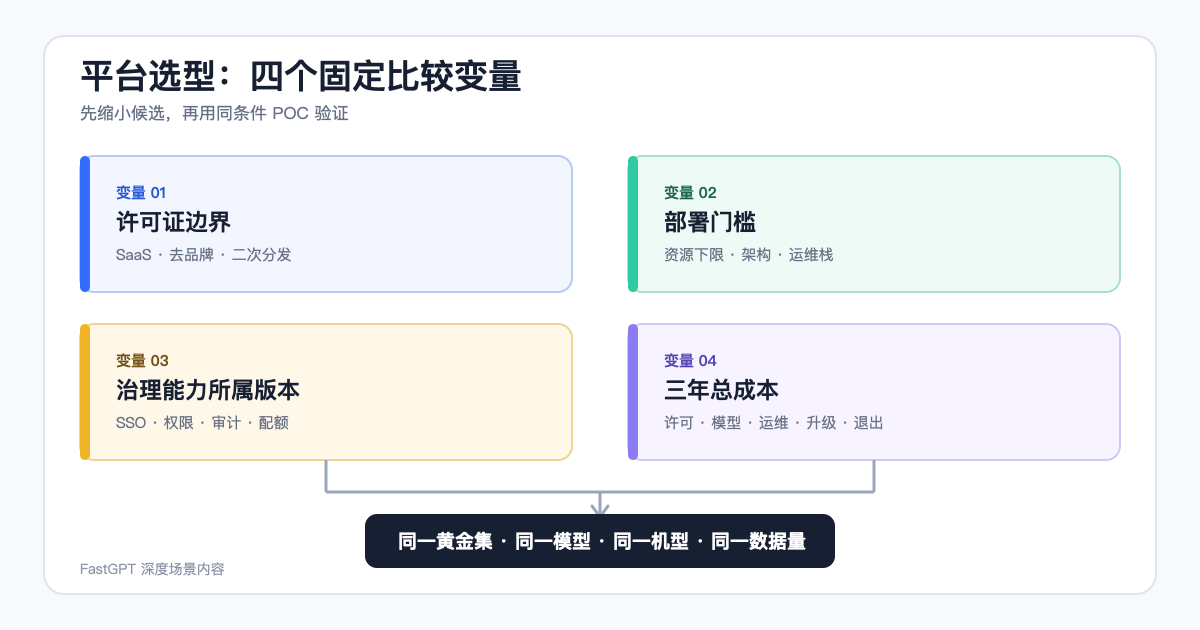
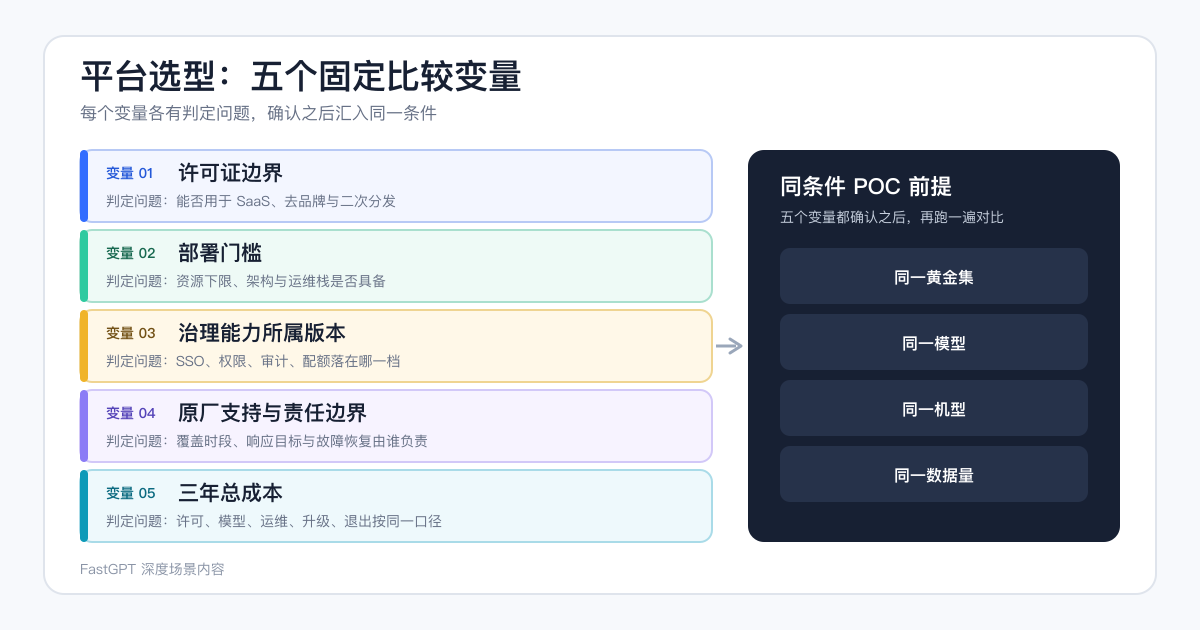
feat(content): upgrade W3 deep content articles to V1.1 with vendor support dimension
Land the approved V1.1 revision of two W3 deep content articles on top of
the /guide/ migration:

- self-hostable-platform-selection: add "原厂支持与责任边界" as a fourth comparison
  variable, renumber the previous fourth variable to five, update the
  governance matrix row, the five-step next-step list, and the publication
  metadata.
- open-source-vs-commercial: replace the 2.3 support summary with the
  four-tier support table plus the service-scope table, split the 2.5
  service rows, and update the publication metadata.
- Rebuild both decision graphics to carry the new dimension and the new
  support ladder (1200x630 PNG rendered from the tracked SVG sources).
- Sync the technical registry and its generated search projection, and
  refresh the approved-copy hashes in verify-deep-content.

Delivery provenance blocks stay excluded per the published-content
transcription policy; one negation-contrastive sentence from the V1.1
source copy was rewritten as a positive claim to match house style.

Changed region(s): [[0.0617, 0.0905, 0.9558, 0.9048]]

diff --git a/scripts/verify-deep-content.js b/scripts/verify-deep-content.js
@@ -18,17 +18,17 @@ const articles = [
   },
   {
     slug: 'self-hostable-platform-selection',
-    metaTitle: '可私有化的开源 AI 应用平台：四个固定比较变量',
+    metaTitle: '可私有化的开源 AI 应用平台：五个固定比较变量',
     metaDescription:
-      '功能勾选表分不出高下，真正决定选型的是许可证边界、部署门槛、治理能力落在哪个版本、三年总成本这四个变量。本文给出各项核实方法、同条件验证前提，以及公开资料未列出为何不等于不支持。',
[1 lines of base64/hex data omitted]
+      '功能勾选表分不出高下，真正决定选型的是许可证边界、部署门槛、治理能力落在哪个版本、原厂支持与责任边界、三年总成本这五个变量。本文给出各项的核实方法与同条件验证前提。',
[1 lines of base64/hex data omitted]
   },
   {
     slug: 'open-source-vs-commercial',
-    metaTitle: '开源版与商业版差在哪：付费买到的功能与服务',
+    metaTitle: '开源版与商业版差在哪：功能、原厂支持与服务',
     metaDescription:
-      '用官方「社区版镜像加商业版镜像」的口径说明付费买到的功能与服务分别是什么，给出私有部署三档的选型顺序、必选可选未来功能表模板，以及什么情况下现在还不该升级的判断依据。',
[1 lines of base64/hex data omitted]
+      '用官方「社区版镜像加商业版镜像」的口径说明付费买到什么，含原厂支持四个档位的时段与响应目标、私有部署三档选型顺序、必选可选未来功能表，以及何时还不该升级。',
[1 lines of base64/hex data omitted]
   },
   {
     slug: 'ai-support-build-or-buy',

diff --git a/src/content/tech-center/guide/self-hostable-platform-selection.md b/src/content/tech-center/guide/self-hostable-platform-selection.md
@@ -2,22 +2,22 @@
 slug: /zh/guide/self-hostable-platform-selection
 page_type: 深度场景内容
 schema_type: Article
-meta_title: 可私有化的开源 AI 应用平台：四个固定比较变量
-meta_description: 功能勾选表分不出高下，真正决定选型的是许可证边界、部署门槛、治理能力落在哪个版本、三年总成本这四个变量。本文给出各项核实方法、同条件验证前提，以及公开资料未列出为何不等于不支持。
-keywords: 开源 AI 平台选型, 可私有化部署, 开源许可证, 三年 TCO, POC 验证
+meta_title: 可私有化的开源 AI 应用平台：五个固定比较变量
+meta_description: 功能勾选表分不出高下，真正决定选型的是许可证边界、部署门槛、治理能力落在哪个版本、原厂支持与责任边界、三年总成本这五个变量。本文给出各项的核实方法与同条件验证前提。
+keywords: 开源 AI 平台选型, 可私有化部署, 开源许可证, 原厂支持, 三年 TCO
 date_published: 2026-08-03
 date_modified: 2026-08-13
 image: /images/tech-center/deep-content/self-hostable-platform-selection.png
-image_alt: 可私有化开源 AI 应用平台选型的四个固定比较变量示意图
+image_alt: 可私有化开源 AI 应用平台选型的五个固定比较变量示意图
 image_width: 1200
 image_height: 630
 ---
 
-# 可私有化的开源 AI 应用平台怎么选：四个固定比较变量
+# 可私有化的开源 AI 应用平台怎么选：五个固定比较变量
 
-**同类产品的功能列表重叠度很高，靠勾选表几乎分不出高下。真正决定选型结果的是四个变量：许可证到底允许你做什么、部署门槛落在哪一档、你需要的治理能力属于哪个版本、以及同一口径下的三年总成本。**
+**同类产品的功能列表重叠度很高，靠勾选表几乎分不出高下。真正决定选型结果的是五个变量：许可证到底允许你做什么、部署门槛落在哪一档、你需要的治理能力属于哪个版本、原厂支持与责任边界怎么划，以及同一口径下的三年总成本。**
 
-这四个变量的共同特点是：都可以从官方公开资料里查证，都能写进采购文件，也都会在项目跑了半年之后真实地影响成本。相比之下，功能条目的多寡在选型阶段看起来重要，在运营期反而很少被提起。
+这五个变量的共同特点是：都可以从官方公开资料里查证或向厂商书面确认，都能写进采购文件，也都会在项目跑了半年之后真实地影响成本。相比之下，功能条目的多寡在选型阶段看起来重要，在运营期反而很少被提起。
 
 本文只使用各方官网、官方文档、官方仓库、官方定价页与公开发布记录中可验证的事实，核验日 **2026-07-20**。文中出现「官方公开资料未列出」时，这是一句事实陈述，**不等于对方无法通过企业版交付或二次开发实现**；涉及关键能力时，应当向厂商书面确认后再下结论。
 
@@ -37,7 +37,7 @@ image_height: 630
 
 ---
 
-## 2. 可落地拆解：四个变量分别怎么查
+## 2. 可落地拆解：五个变量分别怎么查
 
 ### 变量一：许可证边界——查三条，不查名字
 
@@ -69,11 +69,35 @@ image_height: 630
 | 审计日志与保留时长 | 版本 + 保留天数（若公开） |
 | 配额与用量治理 | 版本 + 可控维度 |
 | 外部同步与部门信息隔离并存 | 各家现状，需书面确认 |
-| 原厂支持档位与响应目标 | 档位名称；具体响应与恢复指标以合同为准 |
+| 版本是否绑定支持档位 | 该版本对应哪一档支持（档位本身见变量四） |
 
 填完之后会出现一个常见结果：**同一个产品的不同版本之间的差别，大于两个产品之间的差别。** 这正是这张表的价值——它把选型问题从「选哪家」还原成「选哪家的哪一档」。
 
-### 变量四：三年总成本——给口径，不给数字
+### 变量四：原厂支持与责任边界——查四件事，不比品牌大小
+
+前三个变量决定买什么，这一个变量决定出事之后谁负责。它在选型阶段最容易被当成附加条款一带而过，却会在上线后的第一次故障、第一次版本升级、第一次安全评审里直接兑现成成本与工期。
+
+要查的是四件事，而且只有写进合同的部分才算成立：
+
+1. **支持档位与服务时间**——覆盖时段（工作日 / 5×8 / 5×12 / 7×24）、首次响应目标、支持渠道（工单 / 专属支持群 / 客户经理）、是否含安全补丁与新功能支持；
+2. **交付范围**——软件许可之外是否包含安装部署、调试与原厂维保，集群部署、额外服务器与定制开发是否另行报价；
+3. **责任矩阵**——故障如何分级、谁负责定位、谁负责恢复、升级回滚由哪一方执行、现场支持的触发条件；
+4. **升级与退出**——三年内的版本升级是否额外收费，退出时的数据导出与迁移协助由谁承担。
+
+| 候选 | 截至核验日公开可见的支持形态 | 采购前必须书面确认 |
+|---|---|---|
+| FastGPT | 商业服务可交付；技术支持分四档，覆盖时段从工作日逐档扩到 7×24，首次响应目标按档位递进，所有付费档位含安全补丁、新功能支持与远程线上协助，付费档起有专属支持群、最高档增加客户经理；私有部署交付范围可含安装部署、调试与原厂维保 | 具体可用性、首次响应与恢复指标；集群、额外服务器与定制开发是否另行报价 |
+| Dify | Enterprise 路线询价，SLA 按合同 | 档位划分与响应目标；社区版是否附带任何支持承诺 |
+| MaxKB | 专业版 5×8、企业版 7×24 的档位口径公开 | 可用性、RTO / RPO 与恢复目标 |
+| RAGFlow | Enterprise 提供专属支持与自定义 SLA，数值询价 | 自定义 SLA 的实际可承诺区间 |
+| HiAgent | 原厂咨询与交付，SLA 数值未公开 | 档位、响应与恢复指标，以及交付责任边界 |
+| 自研 / 直接跑开源 | 没有原厂这一栏；社区渠道属互助性质 | 自己的值班表、on-call 轮换与升级演练由谁执行 |
+
+**首次响应目标不等于在同一时限内完成修复。** 未在报价单、服务清单或合同里书面约定的指标，都不应被当作承诺——这条对所有候选一视同仁，也包括本文引用的任何档位口径，引用前应按当期服务清单复核。
+
+最后一行最值得停一下：**自研在这个变量上无法提供「便宜」的选项，对应的状态为「没有」。** 社区 Issue 与社区群是善意的互助，写不进采购文件；把这一栏折算成自己的值班与 on-call 人天，自研与采购平台的三年成本才可比。另外，原厂交付能力是真实优势，但它降低的风险仍然取决于合同里的版本、拓扑、数据出域、SLA、升级、退出迁移与价格调整条款——判断这一项的方法是索取责任矩阵、数据流图、退出迁移方案与续费条款；厂商规模不足以作为依据。
+
+### 变量五：三年总成本——给口径，不给数字
 
 价格、套餐与版本边界属于高频变化数据，任何写进文章的价格数字都可能在读者看到时已经失效。因此这里给的是**同一口径的成本项清单与计算模板，价格栏留空由采购方按各家官网当日页面自行填写**。
 
@@ -139,8 +163,8 @@ image_height: 630
 
 ## 5. 下一步
 
-选型的推荐顺序是：先用四个变量缩小到 2–3 个候选 → 再用治理能力矩阵确认各自需要哪一档版本 → 然后在同一条件下跑 POC → 最后按同一口径算三年成本。四步都完成之后，结论通常是自明的。
+选型的推荐顺序是：先用五个变量缩小到 2–3 个候选 → 再用治理能力矩阵确认各自需要哪一档版本 → 同时把支持档位与责任矩阵要到手 → 然后在同一条件下跑 POC → 最后按同一口径算三年成本。五步都完成之后，结论通常是自明的。
 
 - 与 Dify 的逐项对照与 POC 判据：见[Dify 与 FastGPT 对比页](/zh/compare/dify-vs-fastgpt)
-- 社区版与商业版的功能与服务边界：见[开源版与商业版说明](/zh/guide/open-source-vs-commercial)
+- 社区版与商业版的功能与服务边界、四个支持档位的差别：见[开源版与商业版说明](/zh/guide/open-source-vs-commercial)
 - 私有化部署的组件拓扑与出站边界：见[私有化部署拓扑说明](/zh/guide/private-deployment-topology)

diff --git a/src/content/tech-center/guide/open-source-vs-commercial.md b/src/content/tech-center/guide/open-source-vs-commercial.md
@@ -2,13 +2,13 @@
 slug: /zh/guide/open-source-vs-commercial
 page_type: 深度场景内容
 schema_type: Article
-meta_title: 开源版与商业版差在哪：付费买到的功能与服务
-meta_description: 用官方「社区版镜像加商业版镜像」的口径说明付费买到的功能与服务分别是什么，给出私有部署三档的选型顺序、必选可选未来功能表模板，以及什么情况下现在还不该升级的判断依据。
-keywords: 开源版, 商业版, License, 私有部署版本选型, 社区版
+meta_title: 开源版与商业版差在哪：功能、原厂支持与服务
+meta_description: 用官方「社区版镜像加商业版镜像」的口径说明付费买到什么，含原厂支持四个档位的时段与响应目标、私有部署三档选型顺序、必选可选未来功能表，以及何时还不该升级。
+keywords: 开源版, 商业版, License, 原厂支持档位, 私有部署版本选型
 date_published: 2026-08-03
 date_modified: 2026-08-13
 image: /images/tech-center/deep-content/open-source-vs-commercial.png
-image_alt: FastGPT 社区版镜像、商业版镜像与三档私有部署版本关系图
+image_alt: FastGPT 社区版镜像、商业版镜像、三档私有部署版本关系图与原厂支持四档阶梯图
 image_width: 1200
 image_height: 630
 ---
@@ -65,11 +65,28 @@ image_height: 630
 
 ### 2.3 付费还买到服务，这一层经常被漏算
 
-官方在功能之外提供的服务包括：首次部署协助、优先问题工单、升级、全托管，以及场景落地支持，具体范围以当期商业方案为准。技术支持分为四个档位，所有付费档位均包含安全补丁、新功能支持与远程线上协助，培训权益与服务折扣按档位不同。支持渠道方面，免费版为工单支持，付费版本提供专属支持群，高级版增加专属客户经理。
+官方在功能之外提供的服务包括：首次部署协助、优先问题工单、升级、全托管，以及场景落地支持，具体范围以当期商业方案为准。原厂支持分四个档位，差别落在三处——覆盖时段与首次响应目标、支持渠道、上手与成功资源：
+
+| 支持档位 | 服务时间与首次响应目标 | 支持渠道 | 上手及成功资源 |
+|---|---|---|---|
+| 免费版 | 工作日工作时间内，24 小时响应 | 工单支持 | 培训中心课程；客户自行更新版本 |
+| 基础版 | 5×8（10:00—18:00），4 小时响应 | 专属支持群 | 远程协助、每年 5 个最佳实践案例、每月直播、1 个测试环境 |
+| 进阶版 | 5×12（8:00—20:00），2 小时响应 | 专属支持群 | 官方每年更新 4 次、每年 10 个案例、1 次线上培训、搭建工程师 3 人天、2 个测试环境 |
+| 高级版 | 7×24，1 小时响应 | 专属支持群 + 客户经理 | 官方每年更新 12 次、3 次线上培训、搭建工程师 10 人天、1 次专家咨询、3 个测试环境 |
+
+**所有付费档位都含安全补丁、新功能支持与远程线上协助**，档位之间真正拉开差距的是响应时段与上手资源。私有部署的交付范围除软件 License 之外，可包含安装部署、调试与原厂技术维保，集群版本可按项目需求提供集群部署支持；额外服务器、定制开发与专项服务应另行报价并写入订单与合同。**这一层具体包含什么，可以对照下表向商务逐项确认：**
+
+| 这一层包含什么 | 具体内容 |
+|---|---|
+| 对接方式 | 由原厂团队直接对接交付，不经外包中转；技术答疑、故障排查与配置调试由原厂工程师负责 |
+| 工程师配置 | 配备专职 FDE 智能体工程师，承接业务调研、方案定制、开发部署与上线运维 |
+| 部署与维保 | 私有部署交付范围可含软件 License、安装部署、调试与原厂技术维保 |
+| 试点验证 | 可申请 POC 试点验证，轮次与范围以商务确认为准 |
+| 持续赋能 | 线下全国用户沙龙；商业版客户每月线上直播培训、功能解读与实操教学 |
 
 估算这一层价值的方法是把它折算成人天：**如果没有这层服务，首次部署、版本升级、故障定位这三件事各需要自己投入多少人天，以及这些人天是否具备。** 这个折算结果往往比功能差异更能解释价格。
 
-需要说明的是，具体的响应时限、恢复目标、维保期限、现场支持范围应在报价单、服务清单或合同中逐项确认；**首次响应不等同于在同一时限内完成修复，未书面约定的指标不应被视为承诺。**
+需要说明的是，上表是核验日的官方档位口径；具体的响应时限、恢复目标、维保期限、故障分级、现场支持范围与定制 SLA 应在报价单、服务清单或合同中逐项确认；**首次响应不等同于在同一时限内完成修复，未书面约定的指标不应被视为承诺。**
 
 ### 2.4 私有部署三档：按三步选，不按预算选
 
@@ -96,7 +113,9 @@ image_height: 630
 | 独立开票 / 支付模块 | | | | |
 | Agent 与 Skill 辅助生成 | | | | |
 | 首次部署协助 | | | | |
-| 优先工单与响应档位 | | | | |
+| 支持档位（覆盖时段与首次响应目标） | | | | |
+| 专属支持群 / 客户经理 | | | | |
+| 搭建工程师人天与测试环境数 | | | | |
 | 升级支持 | | | | |
 | 全托管 | | | | |
 
@@ -136,4 +155,4 @@ image_height: 630
 
 - 各档位包含内容与当期价格：见[FastGPT 价格页](/zh/price)
 - 私有化部署的组件拓扑与出站边界：见[私有化部署拓扑说明](/zh/guide/private-deployment-topology)
-- 四个技术支持档位的权益与渠道差别：见[支持与服务档位 FAQ](/zh/faq/support-tiers)
+- 各支持档位的合同化指标（可用性、恢复目标、维保期限、现场支持）：见[支持与服务档位 FAQ](/zh/faq/support-tiers)
